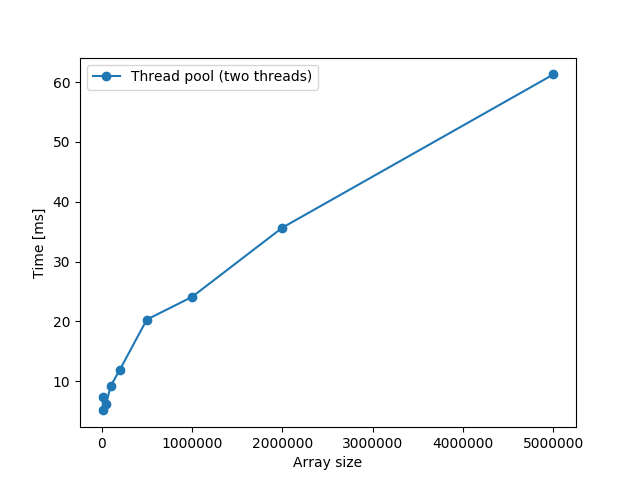
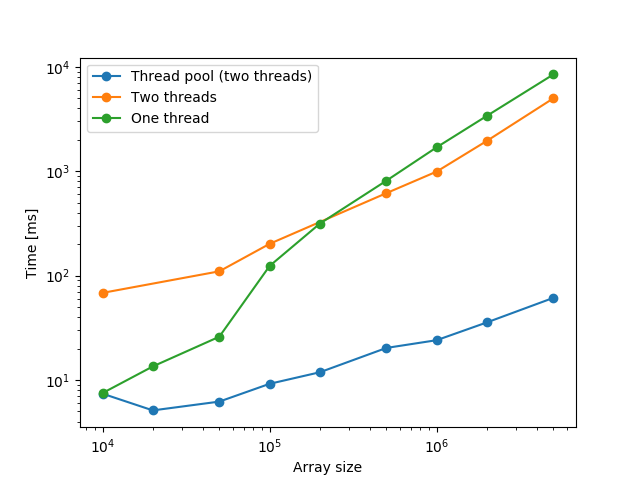
lab1 corr1

diff --git a/lab1/problem5.py b/lab1/problem5.py
@@ -11,12 +11,29 @@ df = pd.read_csv('problem5.csv',
     ]
 )
 
+df2 = pd.read_csv('problem4.csv',
+    names = [
+        "size", "time"
+    ]
+)
+
+df3 = pd.read_csv('problem3.csv',
+    names = [
+        "size", "time"
+    ]
+)
+
 meanDf = df.groupby("size", as_index=False).mean()
-print(meanDf)
+meanDf2 = df2.groupby("size", as_index=False).mean()
+meanDf3 = df3.groupby("size", as_index=False).mean()
 
 plt.plot(meanDf["size"].values, meanDf["time"].values, '-o', label="Thread pool (two threads)")
+plt.plot(meanDf2["size"].values, meanDf2["time"].values, '-o', label="Two threads")
+plt.plot(meanDf3["size"].values, meanDf3["time"].values, '-o', label="One thread")
 plt.xlabel("Array size")
 plt.ylabel("Time [ms]")
+plt.yscale("log")
+plt.xscale("log")
 plt.legend()
 plt.savefig("problem5.png")
 plt.show()

diff --git a/lab1/problem3.py b/lab1/problem3.py
@@ -12,7 +12,6 @@ df = pd.read_csv('problem3.csv',
 )
 
 meanDf = df.groupby("size", as_index=False).mean()
-print(meanDf)
 
 plt.plot(meanDf["size"].values, meanDf["time"].values, '-o', label="One thread")
 plt.xlabel("Array size")
